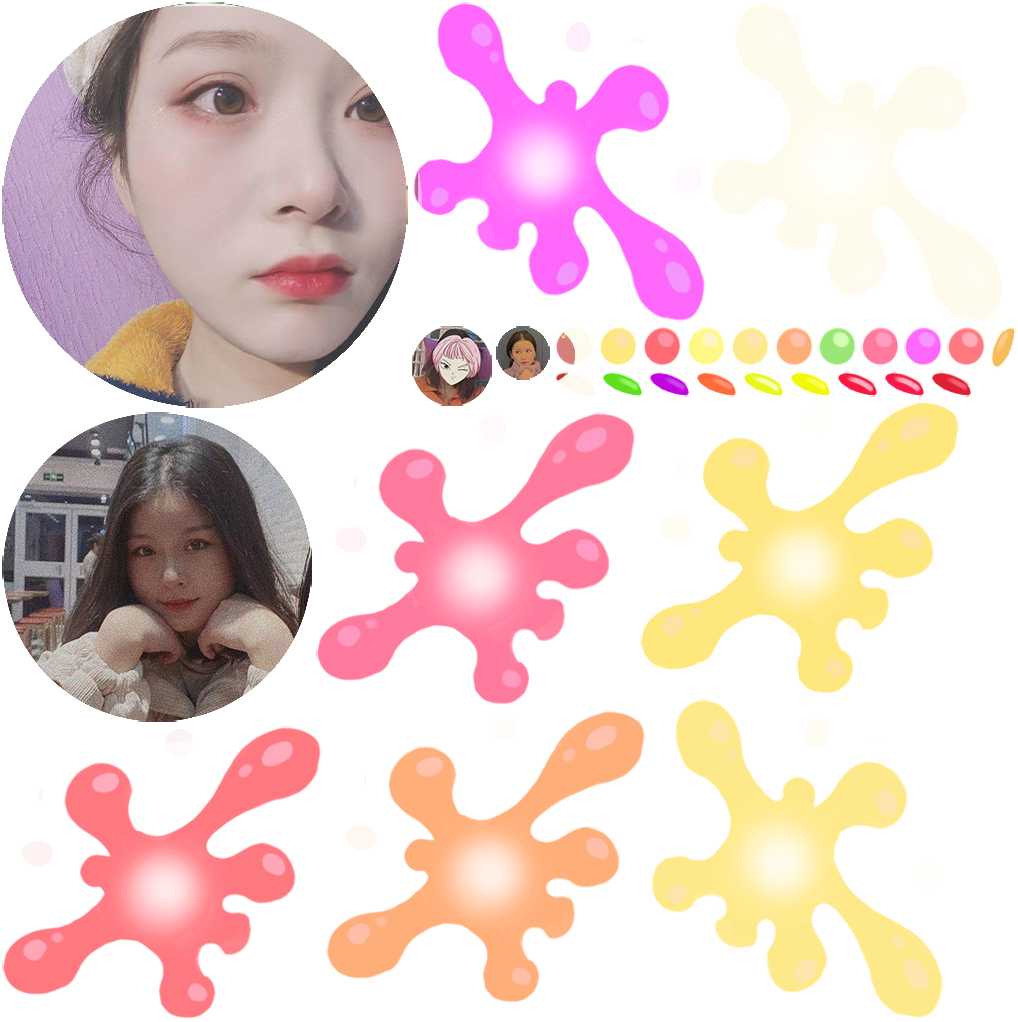
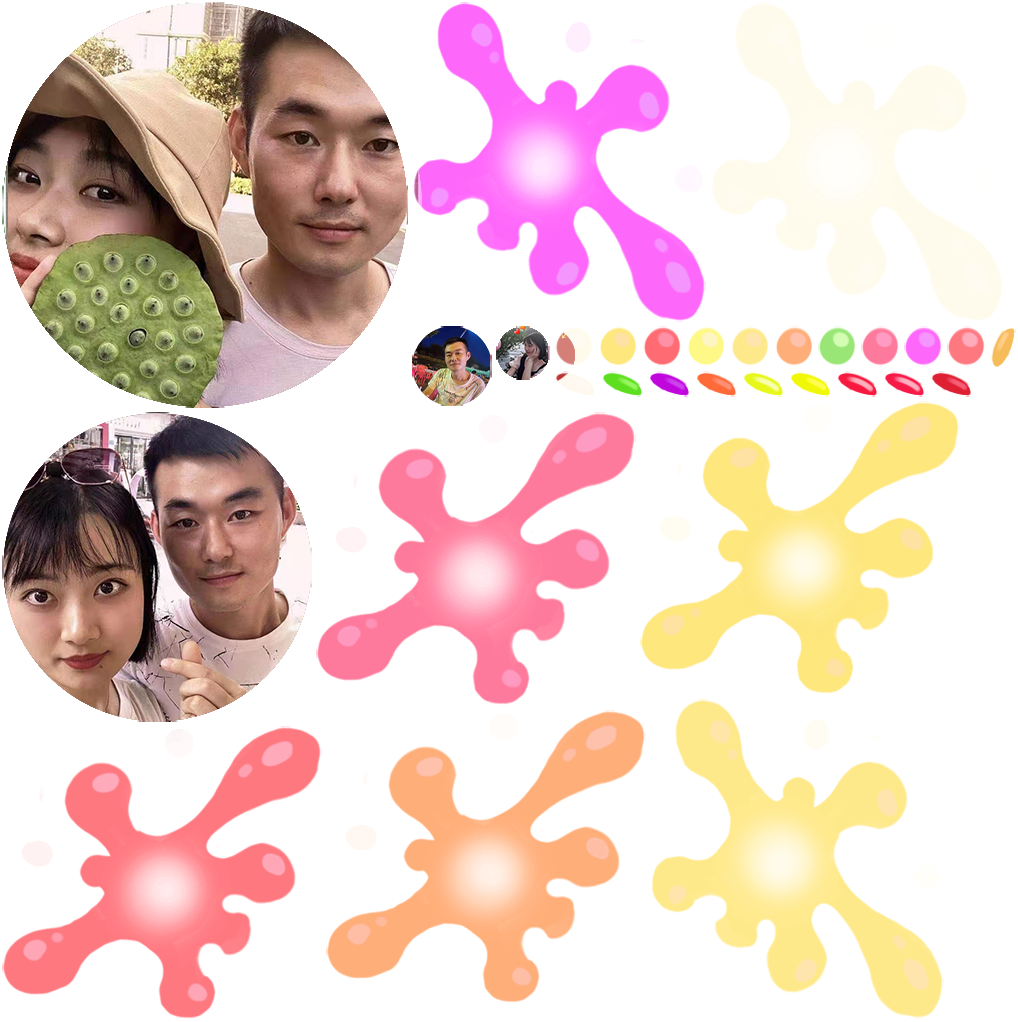
nitial commit

Changed region(s): [[0.0, 0.0, 0.4263, 0.728], [0.3959, 0.3033, 0.5481, 0.3943]]

diff --git a/index.html b/index.html
@@ -4,7 +4,7 @@
 <head>
     <meta charset="utf-8">
 
-    <title>合成小欣欣</title>
+    <title>张老大与吴马屁</title>
 
     <!--http://www.html5rocks.com/en/mobile/mobifying/-->
     <meta name="viewport" content="width=device-width,user-scalable=no,initial-scale=1, minimum-scale=1,maximum-scale=1" />
@@ -109,7 +109,7 @@
             //        console.log("window.navigator.language",window.navigator.language);
 
             if (window.navigator.language == "zh-CN" || window.navigator.language == "zh-cn") {
-                document.title = "合成小欣欣";
+                document.title = "张老大与吴马屁";
             } 
 
 
